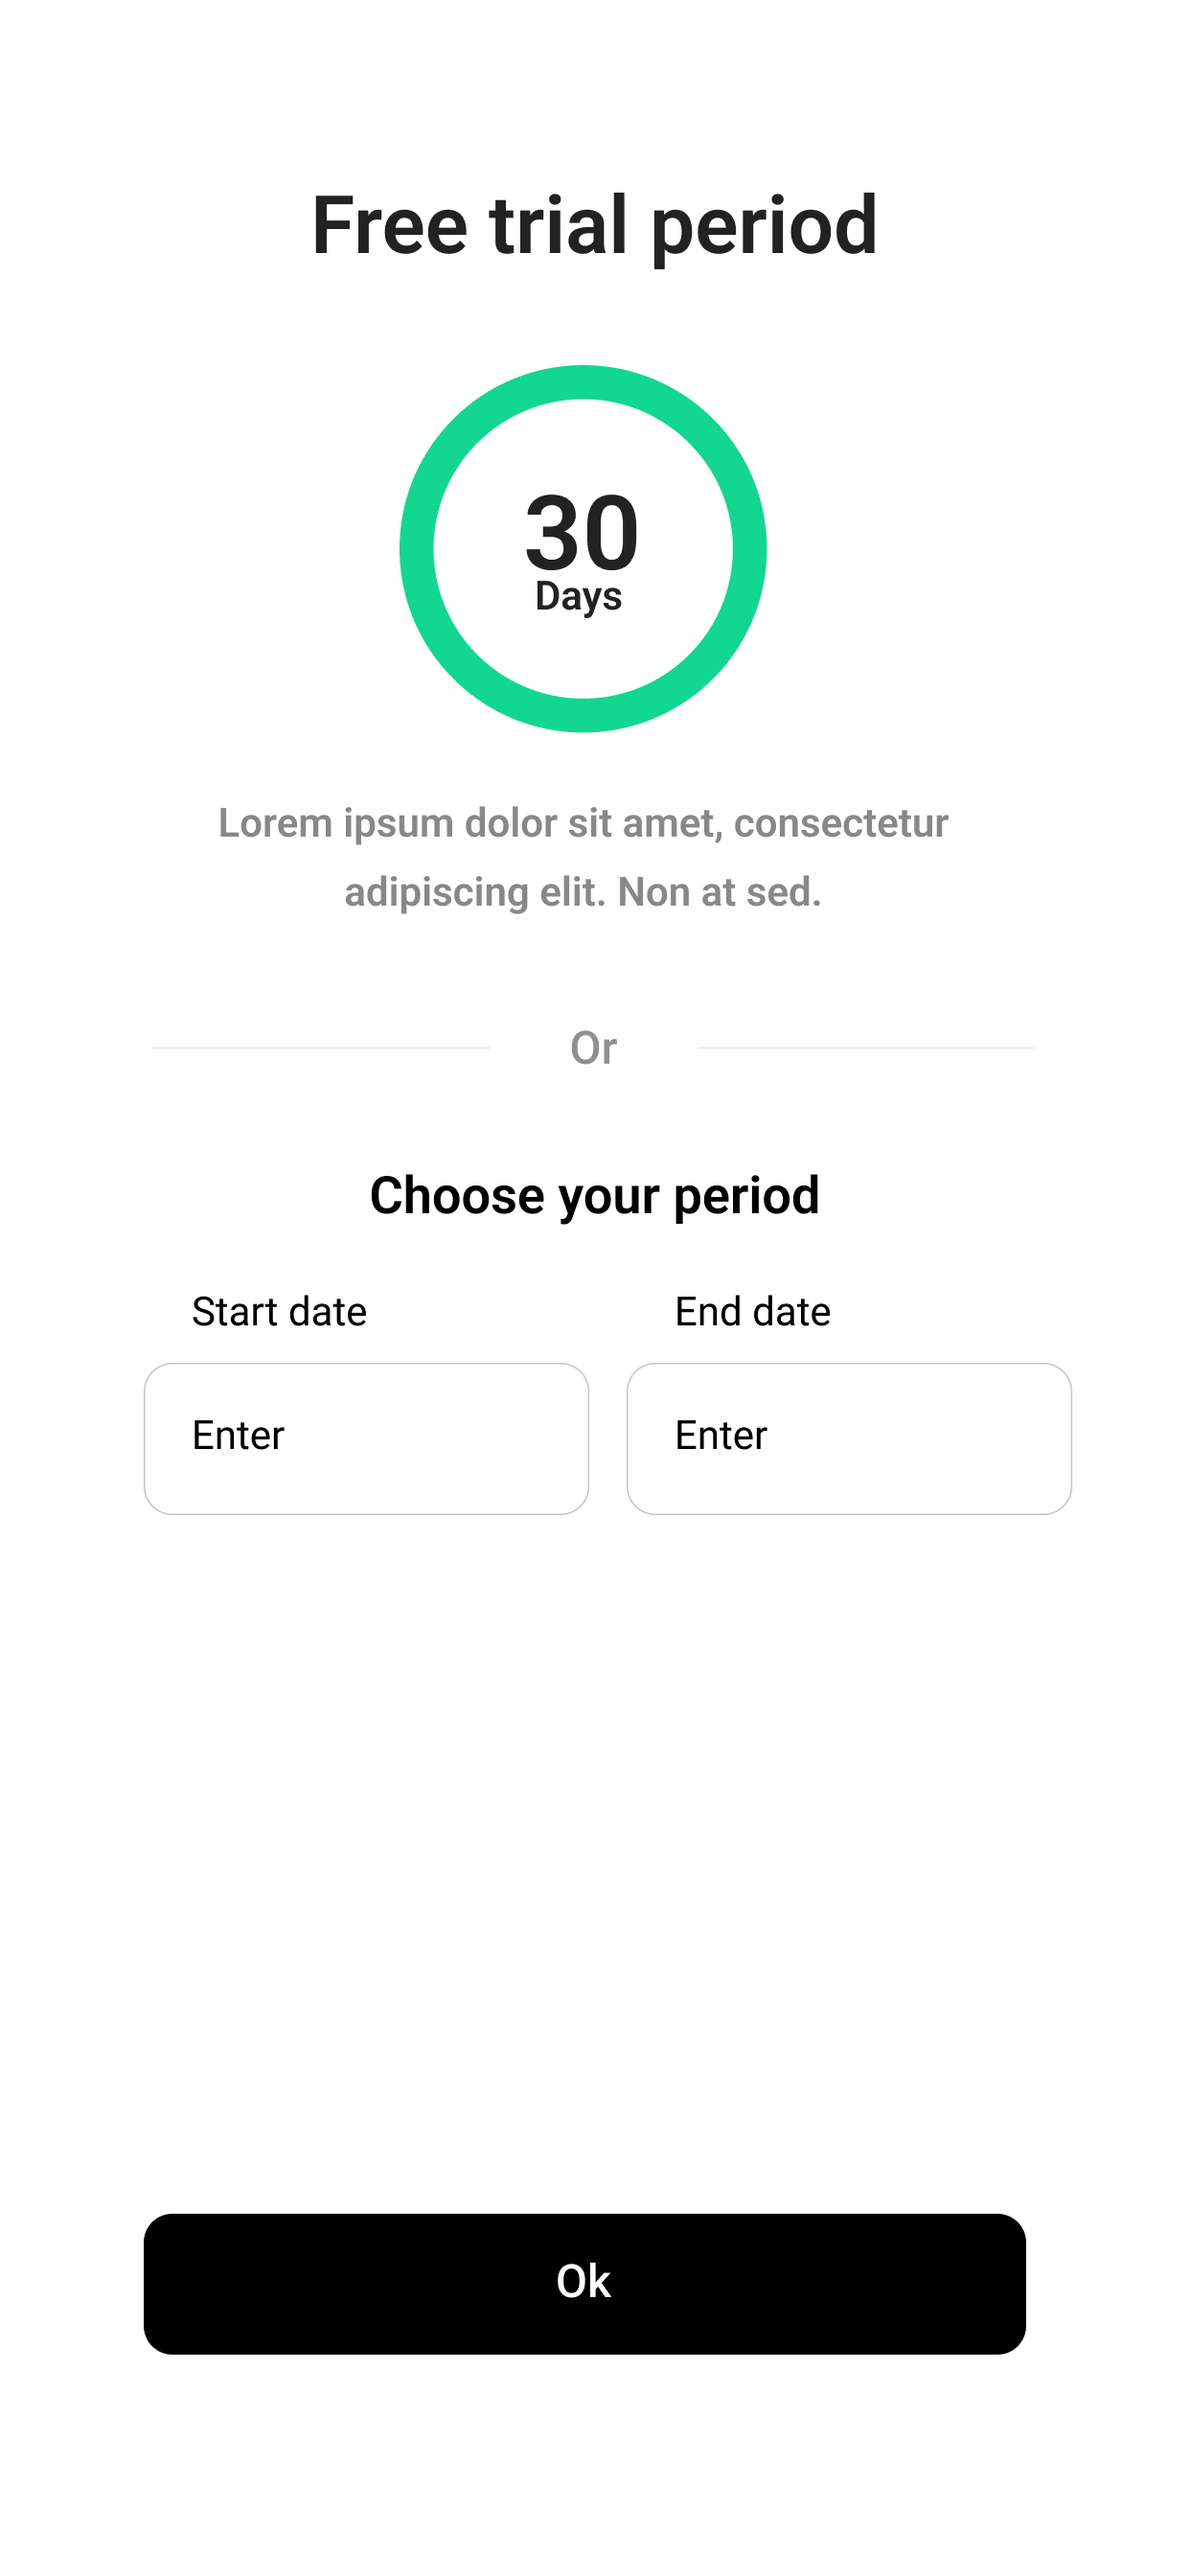
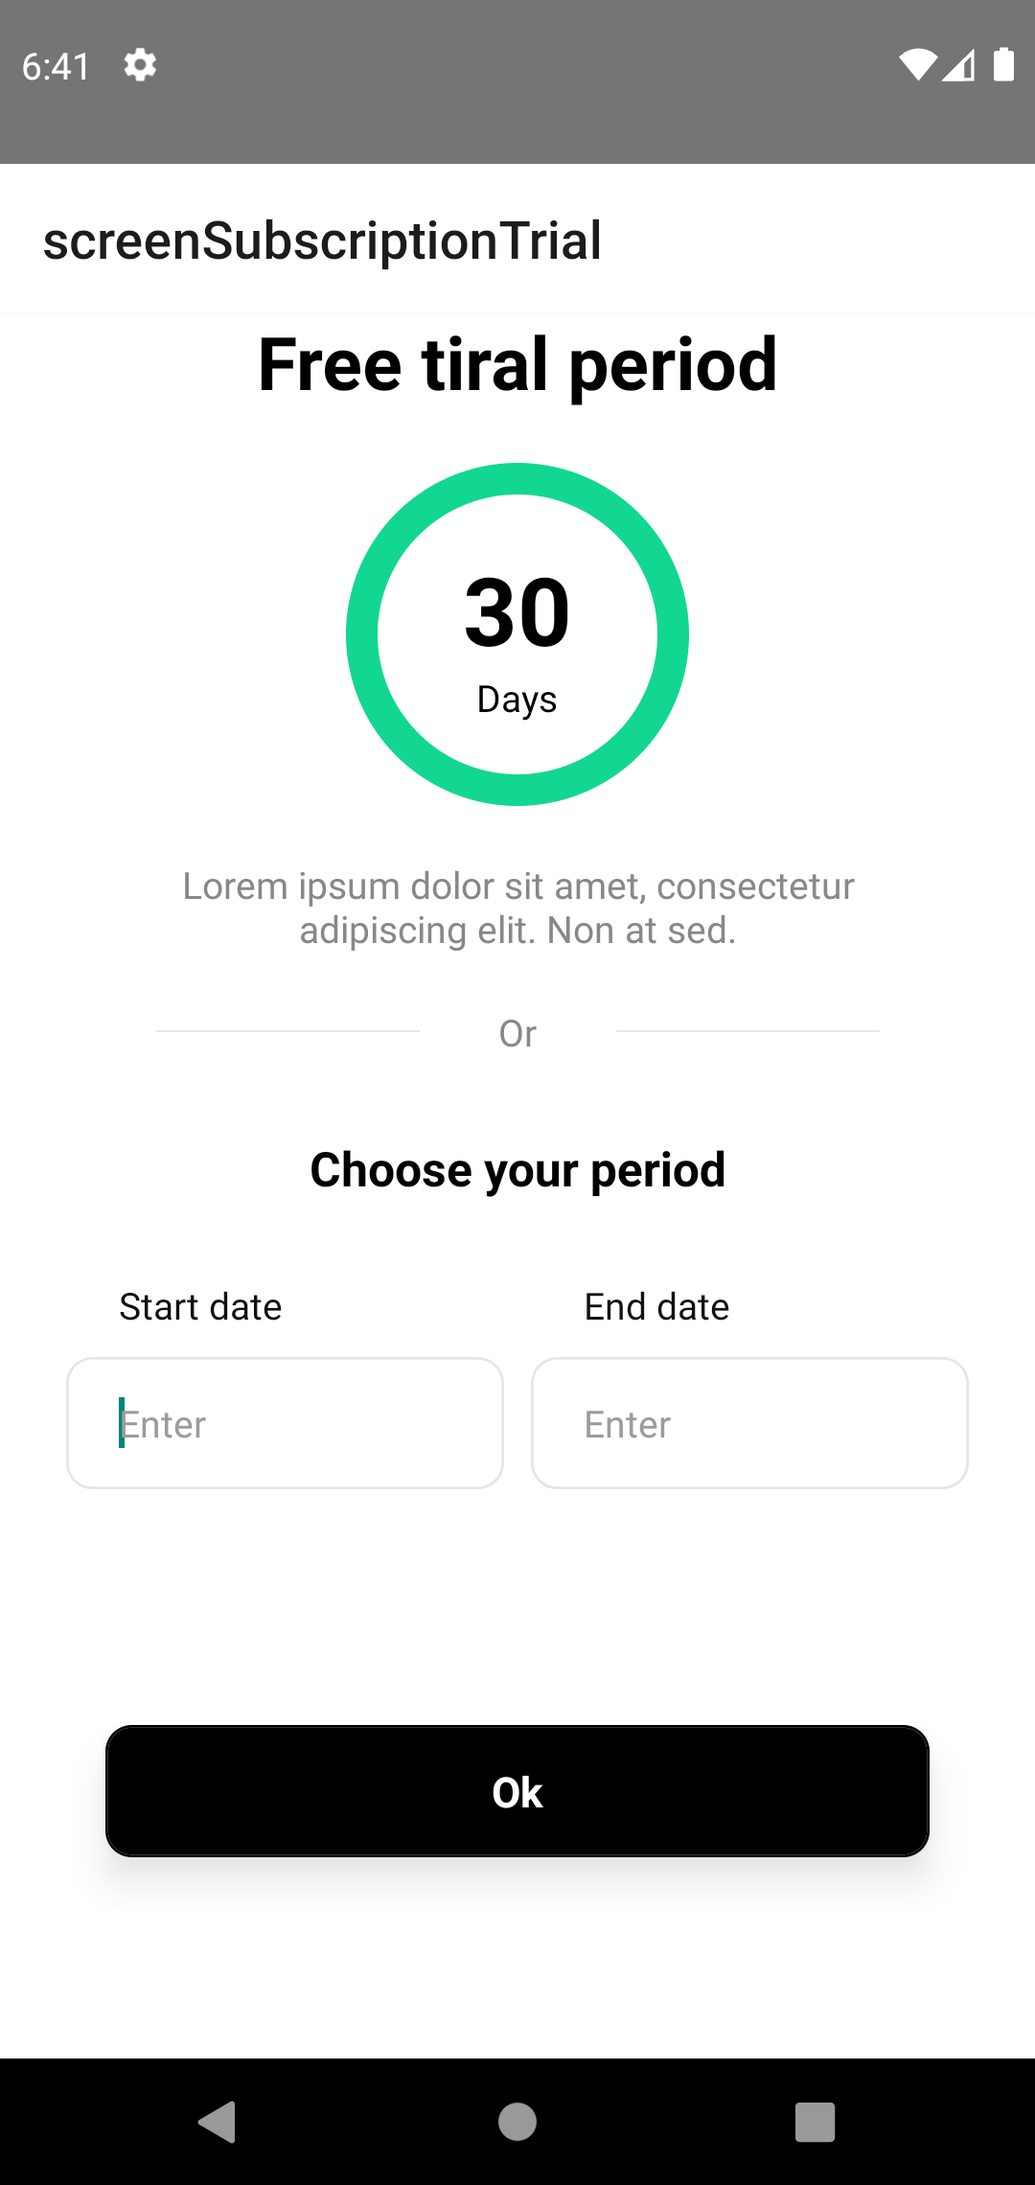
subscription trial screen added

diff --git a/screens/screen-subscription-trial/index.js b/screens/screen-subscription-trial/index.js
@@ -1,14 +1,49 @@
-import React from "react";
+import React, { useState } from "react";
 import {
   Text,
   View,
-  StyleSheet
+  StyleSheet,
+  TextInput,
+  ScrollView,
+  Pressable
 } from "react-native";
 
 const SubscriptionTrial = () => {
+  const [startDate, setStartDate] = useState("");
+  const [endDate, setEndDate] = useState("");
   return (
     <View style={styles.container}>
-      <Text style={styles.heading}>Subscription Trial</Text>
+      <ScrollView>
+        <Text style={styles.heading}>Free tiral period</Text>
+        <View style={styles.daysContainer}>
+          <Text style={styles.days}>30</Text>
+          <Text>Days</Text>
+        </View>
+        <Text style={styles.description}>
+          Lorem ipsum dolor sit amet, consectetur adipiscing elit. Non at sed.
+        </Text>
+        <View style={styles.separator}>
+          <View style={styles.bar} />
+          <Text style={styles.separatorText}>Or</Text>
+          <View style={styles.bar} />
+        </View>
+        <Text style={styles.periodHeading}>Choose your period</Text>
+        <View style={styles.inputsContainer}>
+          <Input
+            text="Start date"
+            value={startDate}
+            onChange={setStartDate}
+            containerStyle={styles.input}
+          />
+          <Input
+            text="End date"
+            value={endDate}
+            onChange={setEndDate}
+            containerStyle={styles.input}
+          />
+        </View>
+        <Button buttonText="Ok" style={styles.button} />
+      </ScrollView>
     </View>
   );
 };
@@ -18,8 +53,216 @@ const styles = StyleSheet.create({
     backgroundColor: "#fff"
   },
   heading: {
-    fontSize: 20
+    fontSize: 28,
+    fontWeight: "bold",
+    color: "#000",
+    textAlign: "center"
+  },
+  daysContainer: {
+    width: 130,
+    height: 130,
+    borderRadius: 70,
+    borderColor: "#12D790",
+    borderWidth: 12,
+    justifyContent: "center",
+    alignItems: "center",
+    alignSelf: "center",
+    marginVertical: 20
+  },
+  days: {
+    fontSize: 36,
+    fontWeight: "bold"
+  },
+  description: {
+    fontSize: 14,
+    color: "#888888",
+    textAlign: "center",
+    paddingHorizontal: 40
+  },
+  separator: {
+    flexDirection: "row",
+    justifyContent: "center",
+    alignItems: "center",
+    marginVertical: 20
+  },
+  bar: {
+    width: 100,
+    height: 1,
+    backgroundColor: "#e6e6e6"
+  },
+  separatorText: {
+    fontSize: 14,
+    color: "#888888",
+    marginHorizontal: 30
+  },
+  periodHeading: {
+    fontSize: 18,
+    color: "#000",
+    textAlign: "center",
+    marginVertical: 10,
+    fontWeight: "bold"
+  },
+  inputsContainer: {
+    flexDirection: "row",
+    justifyContent: "center",
+    padding: 20
+  },
+  input: {
+    flex: 1,
+    marginHorizontal: 5
+  },
+  button: {
+    marginHorizontal: 40,
+    marginTop: 60,
+    marginBottom: 20
   }
 });
 
 export default SubscriptionTrial;
+
+const Input = props => {
+  return (
+    <View style={[inputStyles.inputContainer, props.containerStyle]}>
+      {props.text ? (
+        <Text style={inputStyles.inputText}>{props.text}</Text>
+      ) : null}
+
+      <TextInput
+        style={[
+          inputStyles.input,
+          props.style,
+          props.textArea ? inputStyles.textArea : null
+        ]}
+        placeholder={props.placeholder ? props.placeholder : "Enter"}
+        value={props.value}
+        onChangeText={() => props.onChange()}
+        placeholderTextColor={
+          props.placeholderTextColor ? props.placeholderTextColor : "#9B9B9B"
+        }
+        editable={props.editable !== false}
+        autoCapitalize="none"
+        autoCorrect={false}
+        multiline={props.textArea ? true : false}
+        backgroundColor={props.backgroundColor}
+        secureTextEntry={props.secureTextEntry}
+      />
+      {props.errorText ? (
+        <Text style={inputStyles.error}>{props.errorText}</Text>
+      ) : null}
+      {props.icon ? (
+        <Pressable
+          onPress={() => props.iconOnPress()}
+          style={inputStyles.iconWithText}>
+          <Image source={props.icon} style={inputStyles.icon} />
+        </Pressable>
+      ) : null}
+      <View style={styles.children}>{props.children}</View>
+    </View>
+  );
+};
+
+const inputStyles = StyleSheet.create({
+  inputContainer: {
+    flexDirection: "column",
+    justifyContent: "center"
+  },
+  inputText: {
+    fontSize: 14,
+    marginLeft: 20,
+    color: "#111112"
+  },
+  input: {
+    borderWidth: 1,
+    borderColor: "#e6e6e6",
+    borderRadius: 10,
+    padding: 10,
+    paddingLeft: 20,
+    marginVertical: 10,
+    width: "100%",
+    height: 50,
+    color: "#000"
+  },
+  iconWithText: {
+    position: "absolute",
+    right: 30,
+    bottom: 25,
+    width: 20,
+    height: 20,
+    justifyContent: "center",
+    alignItems: "center",
+    zIndex: 1
+  },
+  icon: {
+    width: "100%",
+    height: "100%",
+    resizeMode: "contain"
+  },
+  textArea: {
+    height: 150
+  },
+  children: {}
+});
+
+const Button = params => {
+  const backgroundColor = params.backgroundColor || "#000";
+  const textColor = params.textColor || "#fff";
+  const btnStyle = {
+    backgroundColor: backgroundColor,
+    borderColor: params.borderColor || backgroundColor,
+    borderWidth: 1
+  };
+  const btnText = {
+    color: textColor
+  };
+  return (
+    <View style={[buttonStyles.btnContainer, params.style]}>
+      <View style={!params.hideShadow ? buttonStyles.shadowContainer : null}>
+        <Pressable
+          style={[buttonStyles.btn, btnStyle]}
+          onPress={params.onPress}>
+          <Text style={[buttonStyles.btnText, btnText]}>
+            {params.buttonText}
+          </Text>
+          <View style={styles.childrenContainer}>{params.children}</View>
+        </Pressable>
+      </View>
+    </View>
+  );
+};
+
+const buttonStyles = StyleSheet.create({
+  btnContainer: {
+    justifyContent: "center"
+  },
+  shadowContainer: {
+    shadowColor: "rgba(0, 0, 0, 0.5)",
+    shadowOffset: {
+      width: 0,
+      height: 5
+    },
+    shadowOpacity: 0.5,
+    shadowRadius: 10,
+    elevation: 10,
+    backgroundColor: "#fff",
+    borderRadius: 10
+  },
+  btn: {
+    height: 50,
+    padding: 10,
+    paddingHorizontal: 25,
+    borderRadius: 10,
+    justifyContent: "center",
+    alignItems: "center",
+
+    flexDirection: "row"
+  },
+  btnText: {
+    color: "#fff",
+    fontSize: 16,
+    fontWeight: "bold"
+  },
+  childrenContainer: {
+    justifyContent: "center",
+    alignItems: "center"
+  }
+});

diff --git a/modules/index.js b/modules/index.js
@@ -2,7 +2,7 @@ import mods from "./*/index.js";
 import { getModules } from "./modules.js";
 
 export const modules = getModules(mods);
-export const initialRoute = "screenStaking";
+export const initialRoute = "screenSubscriptionTrial";
 // export const initialRoute = modules[0].value.title;
 export const slices = modules
   .filter(mod => mod.value.slice)
